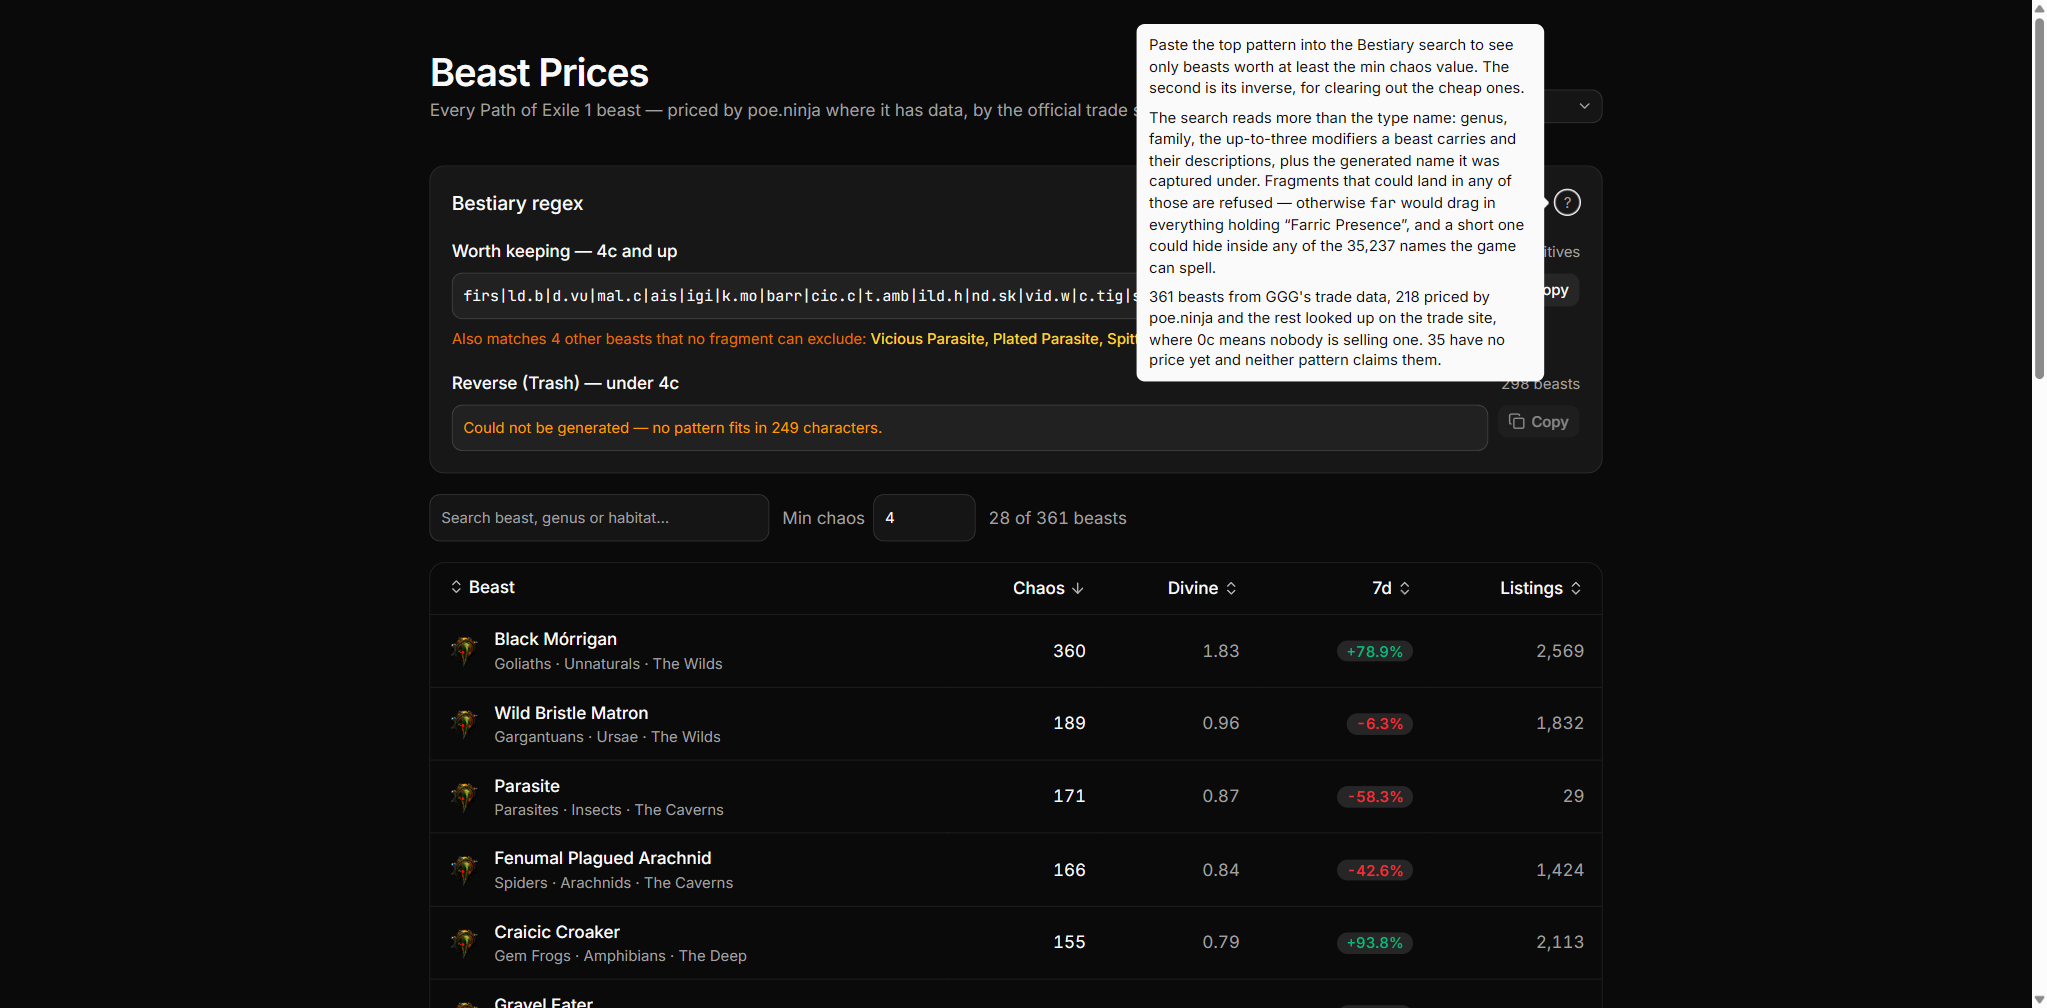
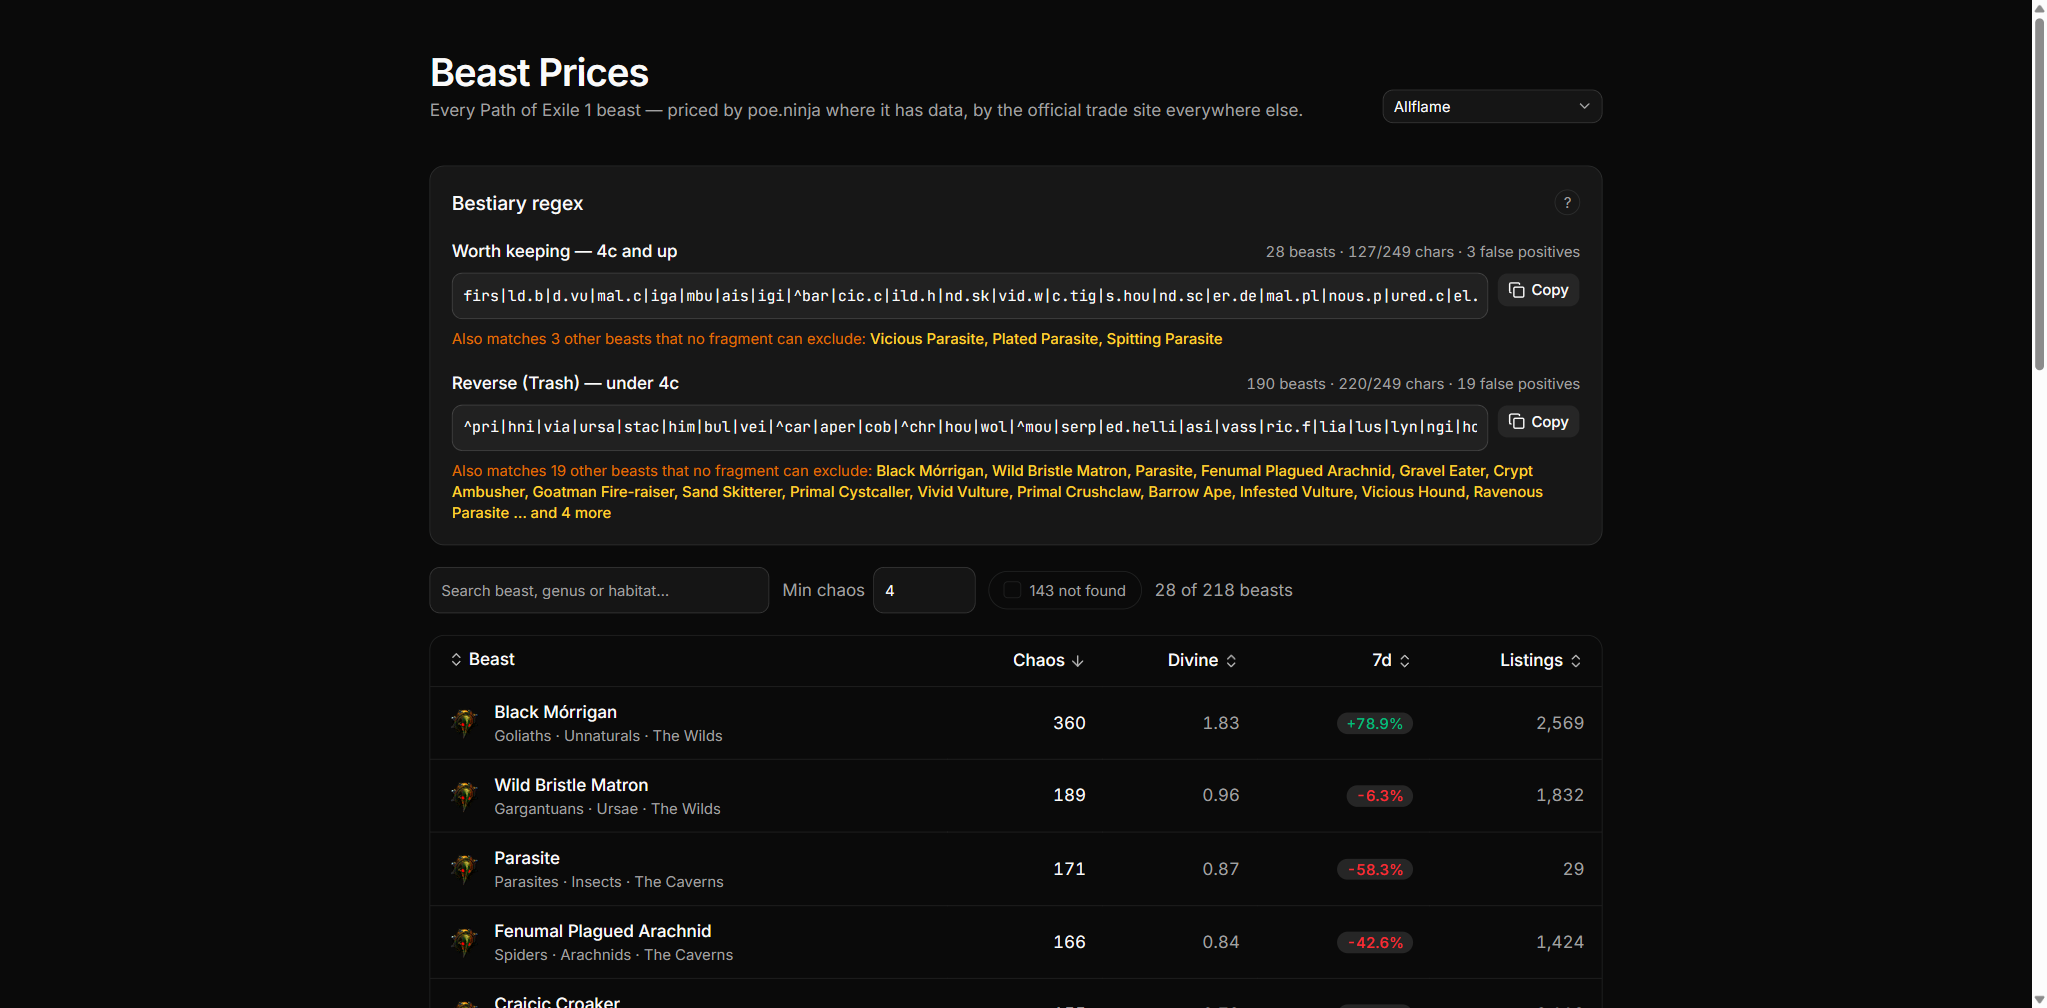
Hide beasts with no listings behind a chip
Anything the game still drops has someone selling it, so a trade search
that comes back empty says the beast is gone, not that it is cheap.
Those are now labelled "not found", left out of the table by default,
and shown by clicking the chip next to the filters.

They are also out of both patterns entirely rather than sitting in the
exclusion set: a beast that cannot be captured cannot show up in the
Bestiary window, so spending pattern length avoiding it buys nothing.
That trims the 4c keep pattern from 155 characters to 127.

diff --git a/src/components/beast-table.tsx b/src/components/beast-table.tsx
@@ -35,6 +35,14 @@ const COLUMNS: { key: SortKey; label: string; numeric: boolean }[] = [
   { key: "listingCount", label: "Listings", numeric: true },
 ];
 
+/**
+ * No listings anywhere. For something that drops there is always someone
+ * selling one, so this reads as "the game does not hand this out any more"
+ * rather than "it is cheap".
+ */
+const isNotFound = (beast: Beast) =>
+  beast.source === "trade" && !beast.listingCount;
+
 function sortValue(beast: Beast, key: SortKey) {
   if (key === "name") return beast.name;
   if (key === "change") return beast.sparkLine?.totalChange ?? 0;
@@ -212,7 +220,7 @@ function BestiaryRegex({
     <div className="bg-card space-y-5 rounded-xl border p-5">
       <div className="flex items-start justify-between gap-3">
         <h2 className="text-lg font-medium">Bestiary regex</h2>
-        <HelpTip beasts={beasts} unknown={unknown.length} />
+        <HelpTip beasts={beasts} />
       </div>
 
       <PatternRow
@@ -233,7 +241,7 @@ function BestiaryRegex({
 }
 
 /** Everything worth explaining, out of the way until asked for. */
-function HelpTip({ beasts, unknown }: { beasts: Beast[]; unknown: number }) {
+function HelpTip({ beasts }: { beasts: Beast[] }) {
   const fromNinja = beasts.filter((b) => b.source === "ninja").length;
 
   return (
@@ -264,11 +272,11 @@ function HelpTip({ beasts, unknown }: { beasts: Beast[]; unknown: number }) {
               can spell.
             </p>
             <p>
-              {beasts.length} beasts from GGG&apos;s trade data, {fromNinja}{" "}
-              priced by poe.ninja and the rest looked up on the trade site, where
-              0c means nobody is selling one.
-              {unknown > 0 &&
-                ` ${unknown} have no price yet and neither pattern claims them.`}
+              Built from {beasts.length} beasts, {fromNinja} priced by poe.ninja
+              and the rest looked up on the trade site. Beasts with no listings
+              at all are left out entirely — anything the game still drops has
+              someone selling it, so an empty search means the beast is gone,
+              not cheap.
             </p>
           </div>
         </TooltipContent>
@@ -282,12 +290,19 @@ export function BeastTable({ beasts }: { beasts: Beast[] }) {
   const [minChaos, setMinChaos] = useState("");
   const [sort, setSort] = useState<SortKey>("chaosValue");
   const [desc, setDesc] = useState(true);
+  const [showNotFound, setShowNotFound] = useState(false);
 
   const threshold = Number(minChaos) || 0;
 
+  // Anything that drops is being sold by someone. A beast the trade site
+  // returns nothing for is not a cheap beast, it is one the game no longer
+  // hands out — so it stays out of the table and out of both patterns.
+  const found = useMemo(() => beasts.filter((b) => !isNotFound(b)), [beasts]);
+  const listed = showNotFound ? beasts : found;
+
   const worthKeeping = useMemo(
-    () => beasts.filter((b) => (b.chaosValue ?? 0) >= threshold),
-    [beasts, threshold],
+    () => listed.filter((b) => (b.chaosValue ?? 0) >= threshold),
+    [listed, threshold],
   );
 
   const rows = useMemo(() => {
@@ -320,9 +335,11 @@ export function BeastTable({ beasts }: { beasts: Beast[] }) {
     }
   }
 
+  const notFoundCount = beasts.length - found.length;
+
   return (
     <div className="space-y-5">
-      <BestiaryRegex beasts={beasts} threshold={threshold} />
+      <BestiaryRegex beasts={found} threshold={threshold} />
 
       <div className="flex flex-wrap items-center gap-3">
         <Input
@@ -347,8 +364,29 @@ export function BeastTable({ beasts }: { beasts: Beast[] }) {
             className="h-11 w-24"
           />
         </div>
+        {notFoundCount > 0 && (
+          <button
+            type="button"
+            onClick={() => setShowNotFound((v) => !v)}
+            aria-pressed={showNotFound}
+            className={`flex h-9 items-center gap-2 rounded-full border px-3.5 text-sm transition-colors ${
+              showNotFound
+                ? "border-foreground/30 bg-secondary text-foreground"
+                : "text-muted-foreground hover:text-foreground hover:border-foreground/30"
+            }`}
+          >
+            <span
+              className={`flex size-4 items-center justify-center rounded-[4px] border ${
+                showNotFound ? "bg-foreground text-background" : ""
+              }`}
+            >
+              {showNotFound && <Check className="size-3" strokeWidth={3} />}
+            </span>
+            {notFoundCount} not found
+          </button>
+        )}
         <span className="text-muted-foreground tabular-nums">
-          {rows.length} of {beasts.length} beasts
+          {rows.length} of {listed.length} beasts
         </span>
       </div>
 
@@ -414,11 +452,9 @@ export function BeastTable({ beasts }: { beasts: Beast[] }) {
                         )}
                         <div className="text-muted-foreground truncate text-sm">
                           {traits.join(" · ") ||
-                            (beast.chaosValue === undefined
-                              ? "price not fetched yet"
-                              : beast.listingCount
-                                ? "priced from the trade site"
-                                : "nobody is selling one")}
+                            (isNotFound(beast)
+                              ? "not found"
+                              : "priced from the trade site")}
                         </div>
                       </div>
                     </div>
